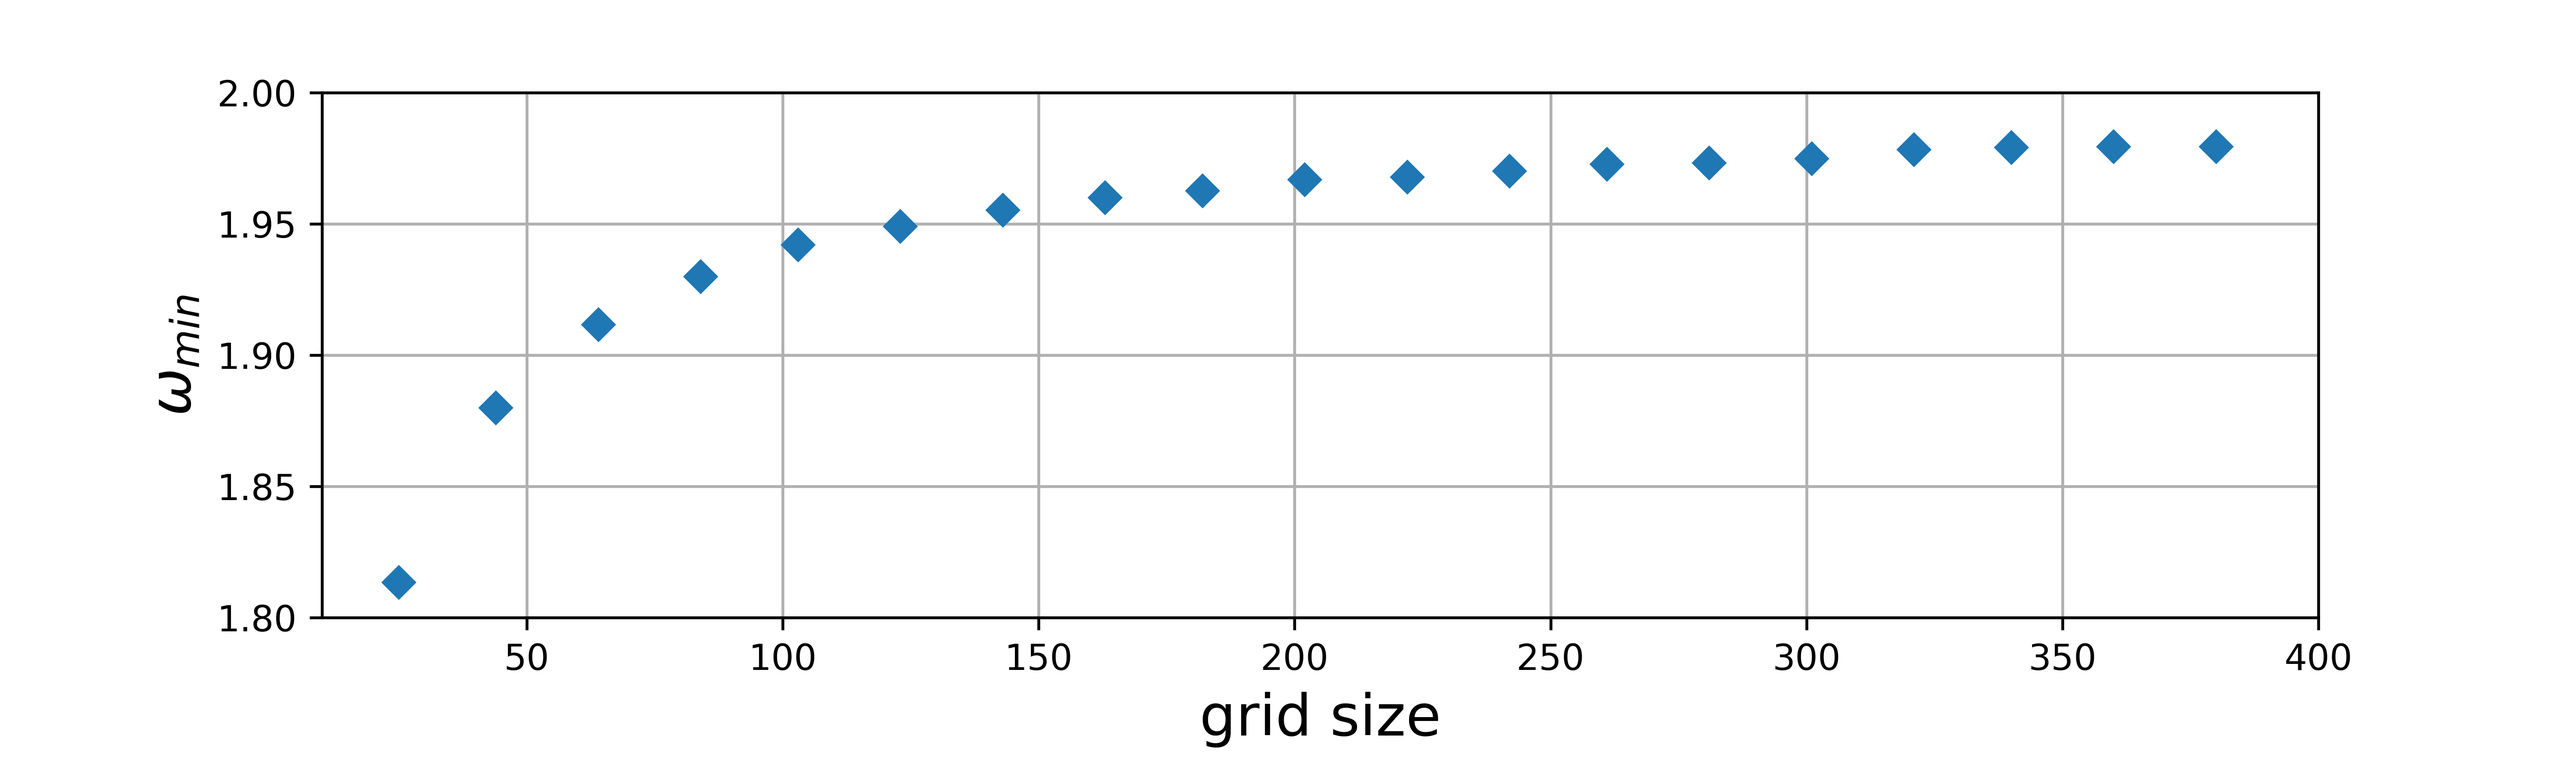
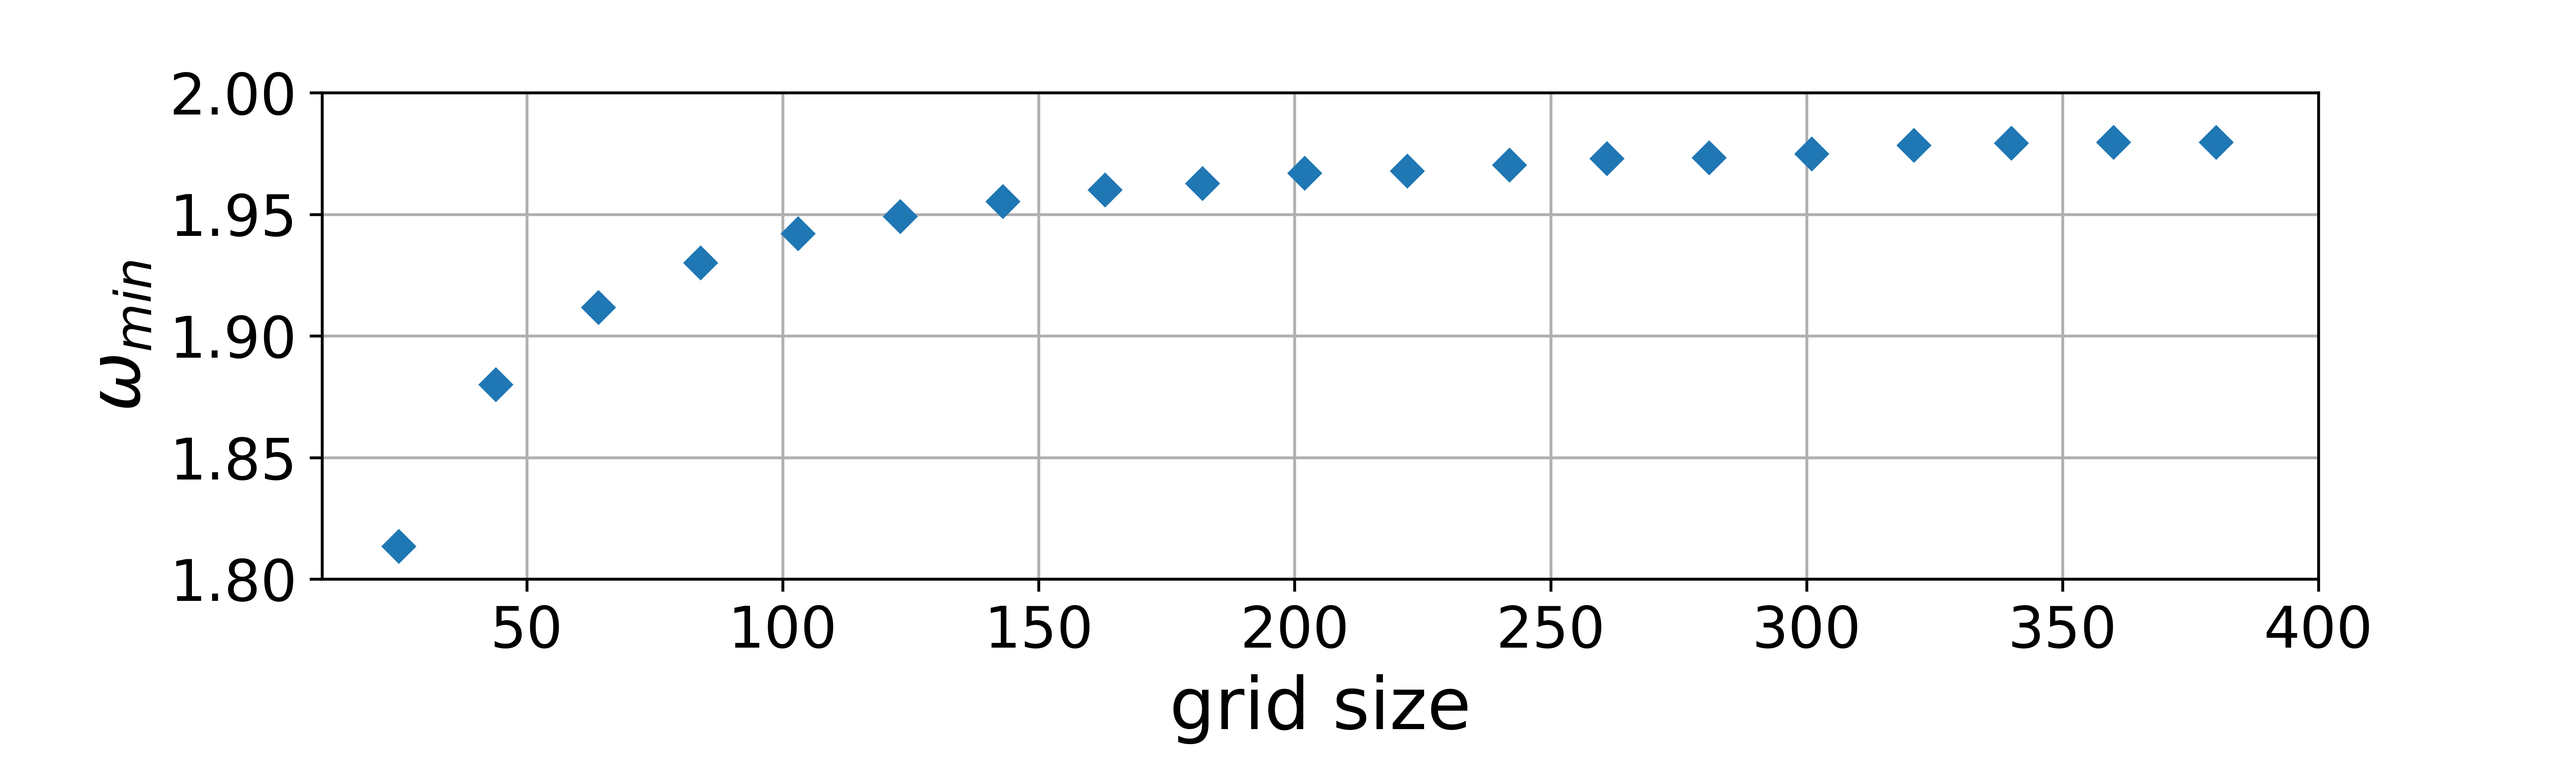
update plots

diff --git a/src/main_SOR.py b/src/main_SOR.py
@@ -85,7 +85,7 @@ def tol_after_N_Jacobi(Ns):
                                                 N)
         
         solution, t, tol = jacobi_diffusion.solve()
-        print(t, tol)
+        # print(t, tol)
         # sor_diffusion.plot_animation()    
         tolerances[i] = tol
     return tolerances
@@ -146,17 +146,23 @@ def iter_to_convergence_plot_inv():
     for omega in omegas:
         tolerances = tol_after_N_SOR(Ns, omega)
         plt.plot(Ns, tolerances, label=r'SOR, $\omega$ = {}'.format(omega))
+        num_pts = np.argmax(tolerances<1e-12)
+        lin_fit = np.polyfit(Ns[:num_pts], np.log10(tolerances[:num_pts]), deg=1)
+        print(omega, lin_fit[0], lin_fit[1])
     
     tolerances = tol_after_N_Jacobi(Ns)
     plt.plot(Ns, tolerances, label='Jacobi')
+    num_pts = np.argmax(tolerances<1e-12)
+    lin_fit = np.polyfit(Ns[:num_pts], np.log10(tolerances[:num_pts]), deg=1)
+    print('jacobi', lin_fit[0], lin_fit[1])
         
     plt.grid()
     plt.legend()
     # plt.xscale('log')
     plt.yscale('log')
-    plt.ylabel(r'$\varepsilon^k$', rotation=0)
-    plt.xlabel('k')
-    plt.title('Number of Iterations to Converge')
+    plt.ylabel(r'$\varepsilon^k$', rotation=0, fontsize=14)
+    plt.xlabel('iteration', fontsize=14)
+    # plt.title('Number of Iterations to Converge')
     plt.savefig('plots/num_iter_vs_tol_inv.png', dpi=600)
     # plt.show()
     
@@ -267,11 +273,14 @@ def optimal_omega_vs_N_plot(mask = None, title='No Obstructions', file ='plots/o
     # plt.legend()
     # plt.xscale('log')
     # plt.yscale('log')
-    plt.xlabel(r'grid size')
-    plt.ylabel(r'$\omega_{min}$')
+    plt.xticks(fontsize=16)
+    plt.yticks(fontsize=16)
+    plt.xlabel(r'grid size', fontsize=20)
+    plt.ylabel(r'$\omega_{min}$', fontsize=20)
     # plt.title(title + r', $\omega_{min} = $' + '{:.2f}'.format(w_min))
     plt.ylim([1.8,2])
     plt.xlim([10,400])
+    plt.subplots_adjust(bottom=0.25)
     plt.savefig(file, dpi=600)
 
         
@@ -287,7 +296,7 @@ def a_maze():
     x_length = 1.0
     y_length = 1.0
     n_steps = 53
-    time_step_num = 1000000
+    time_step_num = 100000
     omega = 1.87
     # """
     sor_diffusion = SORDiffusion(
@@ -301,19 +310,24 @@ def a_maze():
                                             insulated = insulated)
     
     c, t, tol = sor_diffusion.solve(1e-9)
-    fig, ax = plt.subplots()
-    fig.tight_layout()
+    # sor_diffusion.plot_animation(skip_n=10)
+    fig, ax = plt.subplots(figsize=[6,5])
+    fig.subplots_adjust(left=0.07, bottom=0.06, right=0.85, top=0.95)
+    # fig.tight_layout()
+    # fig.subplots_adjust(right=0.02)
     # ax = axs[0]
     # ax.imshow(mask,cmap="hot",origin="lower",aspect='equal')
     # ax = axs[1]
     # ax.set_xlabel("X")
     # ax.set_ylabel("Y")
     # ax.set_title("Equilibrium Diffusion")
-    print(c[t].shape, mask.shape)
+    # print(c[t].shape, mask.shape)
     heatmap = ax.imshow(c[t], cmap="hot", origin="lower",aspect='equal' ) #extent=[0,x_length, 0, y_length])
-
+    plt.xticks(fontsize=16)
+    plt.yticks(fontsize=16)
     cbar = plt.colorbar(heatmap, fraction=0.046, pad=0.04)
-    cbar.set_label("Concentration", fontsize=14)
+    cbar.set_label("Concentration", fontsize=20)
+    cbar.ax.tick_params(labelsize=16)
     # sor_diffusion.plot_y_slice(0)
     plt.savefig('plots/maze_heatmap.png', dpi=600)
     plt.show()
@@ -333,10 +347,10 @@ if __name__ == '__main__':
     # main(mask=mask, insulated=insulated)
     # main()
     # iter_to_convergence_plot()
-    # iter_to_convergence_plot_inv()
+    iter_to_convergence_plot_inv()
     # optimal_omega_plot_inv(num_iter=5000, grid_size=100)
-    grid_sizes = [40,50,60,100]
-    optimal_omega_plot(grid_sizes=grid_sizes, tolerance=1e-12)
+    # grid_sizes = [40,50,60,100]
+    # optimal_omega_plot(grid_sizes=grid_sizes, tolerance=1e-12)
 
 
     # a_maze()
